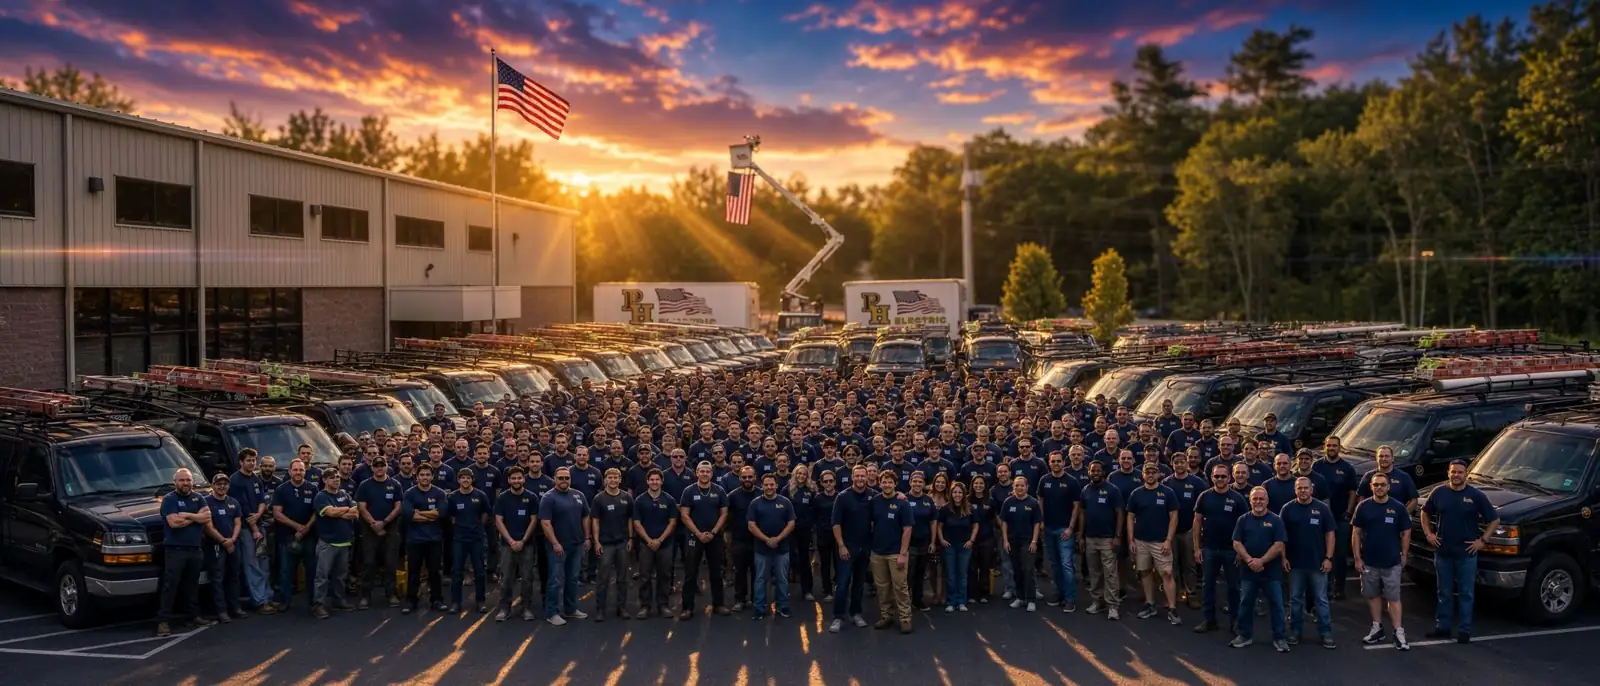
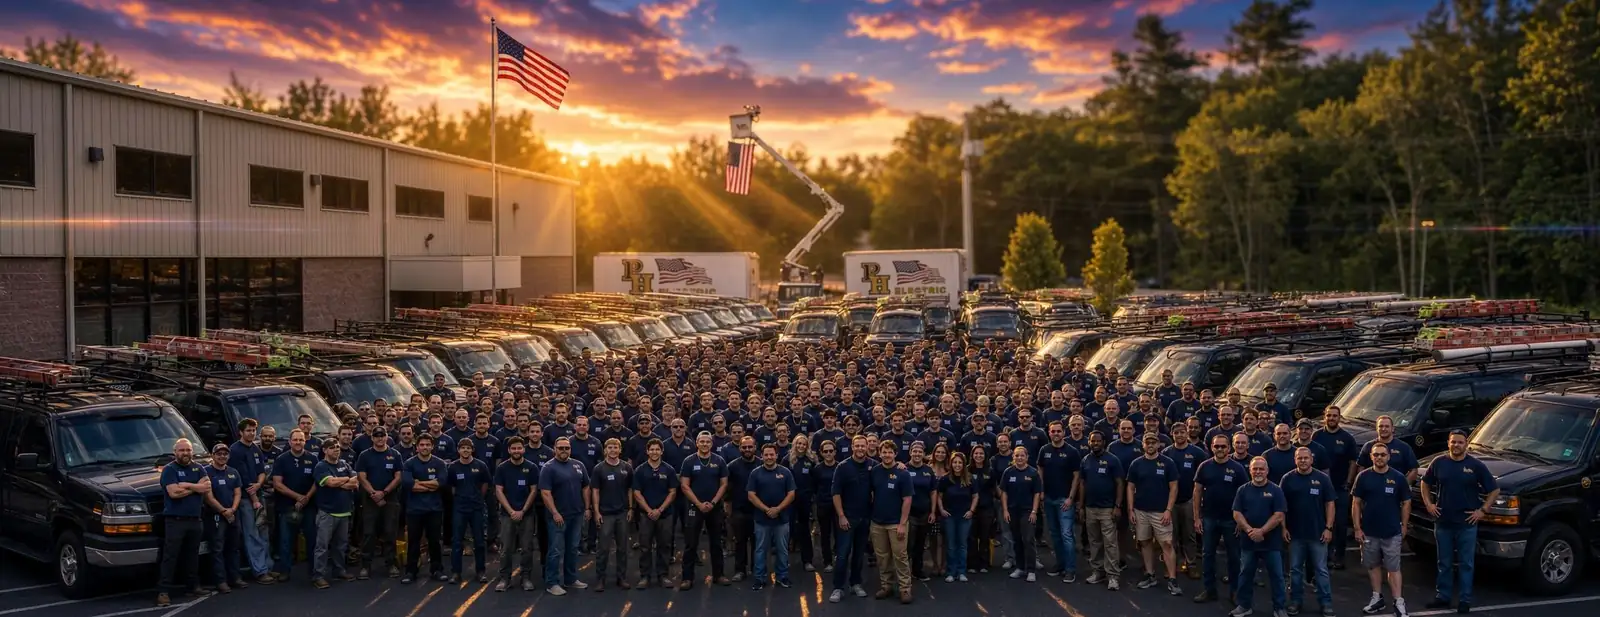
Show the flag: crop header photo from the top of the sky to the front row
Claude-Session: https://claude.ai/code/session_01JYoaQArJ2J1MmeSCs7Teus

diff --git a/styles.css b/styles.css
@@ -102,8 +102,8 @@
   .hero-photo > .wrap { width: 100%; }
   .hero-band { padding-top: calc(var(--u) * 4); }
   /* crop the sky so the team fills the frame; photo leads on phones */
-  .hero-figure { order: -1; margin: 0; aspect-ratio: 2 / 1; overflow: hidden; }
-  .hero-figure img { width: 100%; height: 100%; object-fit: cover; object-position: 50% 100%; filter: brightness(1.15) saturate(1.05); }
+  .hero-figure { order: -1; margin: 0; aspect-ratio: 1600 / 617; overflow: hidden; }
+  .hero-figure img { width: 100%; height: 100%; object-fit: cover; object-position: 50% 0; filter: brightness(1.15) saturate(1.05); }
   .hero-photo .hero-meta { margin-top: calc(var(--u) * 3); border-top: 0; padding-top: 0; }
 
   /* Safety + capability detail cards */
@@ -179,7 +179,7 @@
     .hero.hero-photo { padding: 0 0 calc(var(--u) * 4); }
     .hero-band { display: grid; grid-template-columns: 1.5fr 1fr; gap: calc(var(--u) * 6); align-items: end; padding-top: calc(var(--u) * 4); padding-bottom: calc(var(--u) * 4); }
     .hero-photo h1 { font-size: clamp(2.25rem, 3vw, 3.25rem); max-width: none; }
-    .hero-figure { order: 0; aspect-ratio: 3.4 / 1; }
+    .hero-figure { order: 0; aspect-ratio: 1600 / 617; }
     .hero-photo .hero-lede { margin-top: 0; }
     section { padding: calc(var(--u) * 12) 0; }
     .caps { grid-template-columns: repeat(3, 1fr); }

diff --git a/index.html b/index.html
@@ -47,7 +47,7 @@
       </div>
     </div>
     <figure class="hero-figure">
-      <img src="img/hero.webp" alt="PH Electric team gathered in front of the company building and service vehicles at sunset" width="1600" height="686" fetchpriority="high">
+      <img src="img/hero.webp" alt="PH Electric team gathered in front of the company building and service vehicles at sunset" width="1600" height="617" fetchpriority="high">
       <figcaption class="photo-tag">Mockup · AI-made photo</figcaption>
     </figure>
     <div class="wrap">
